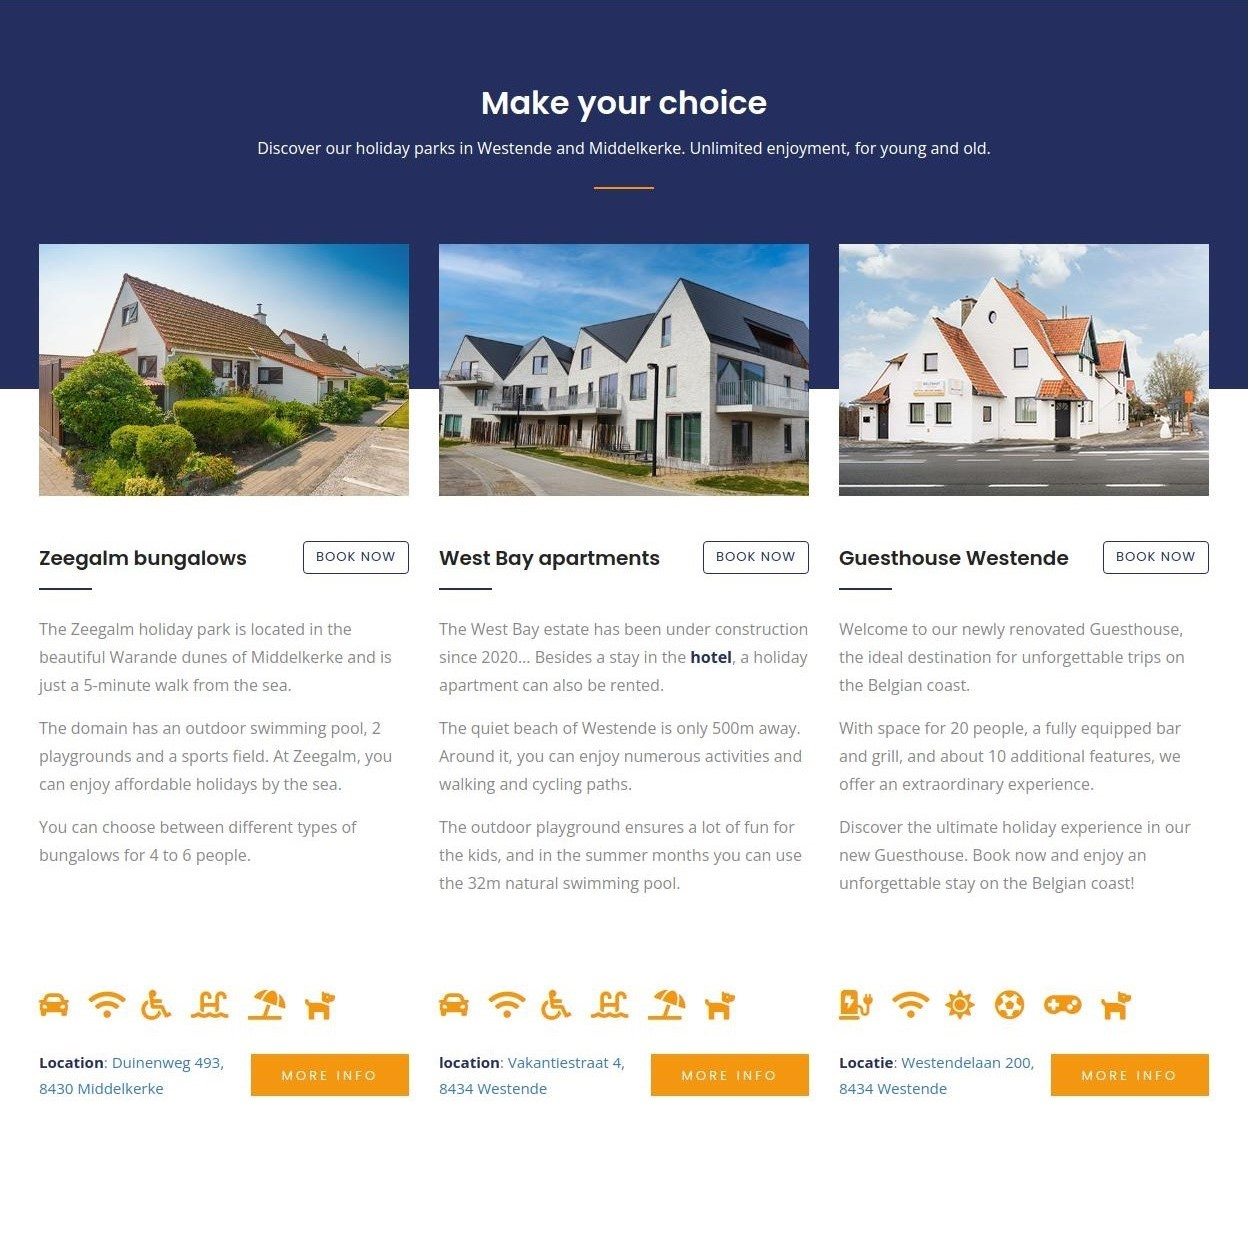
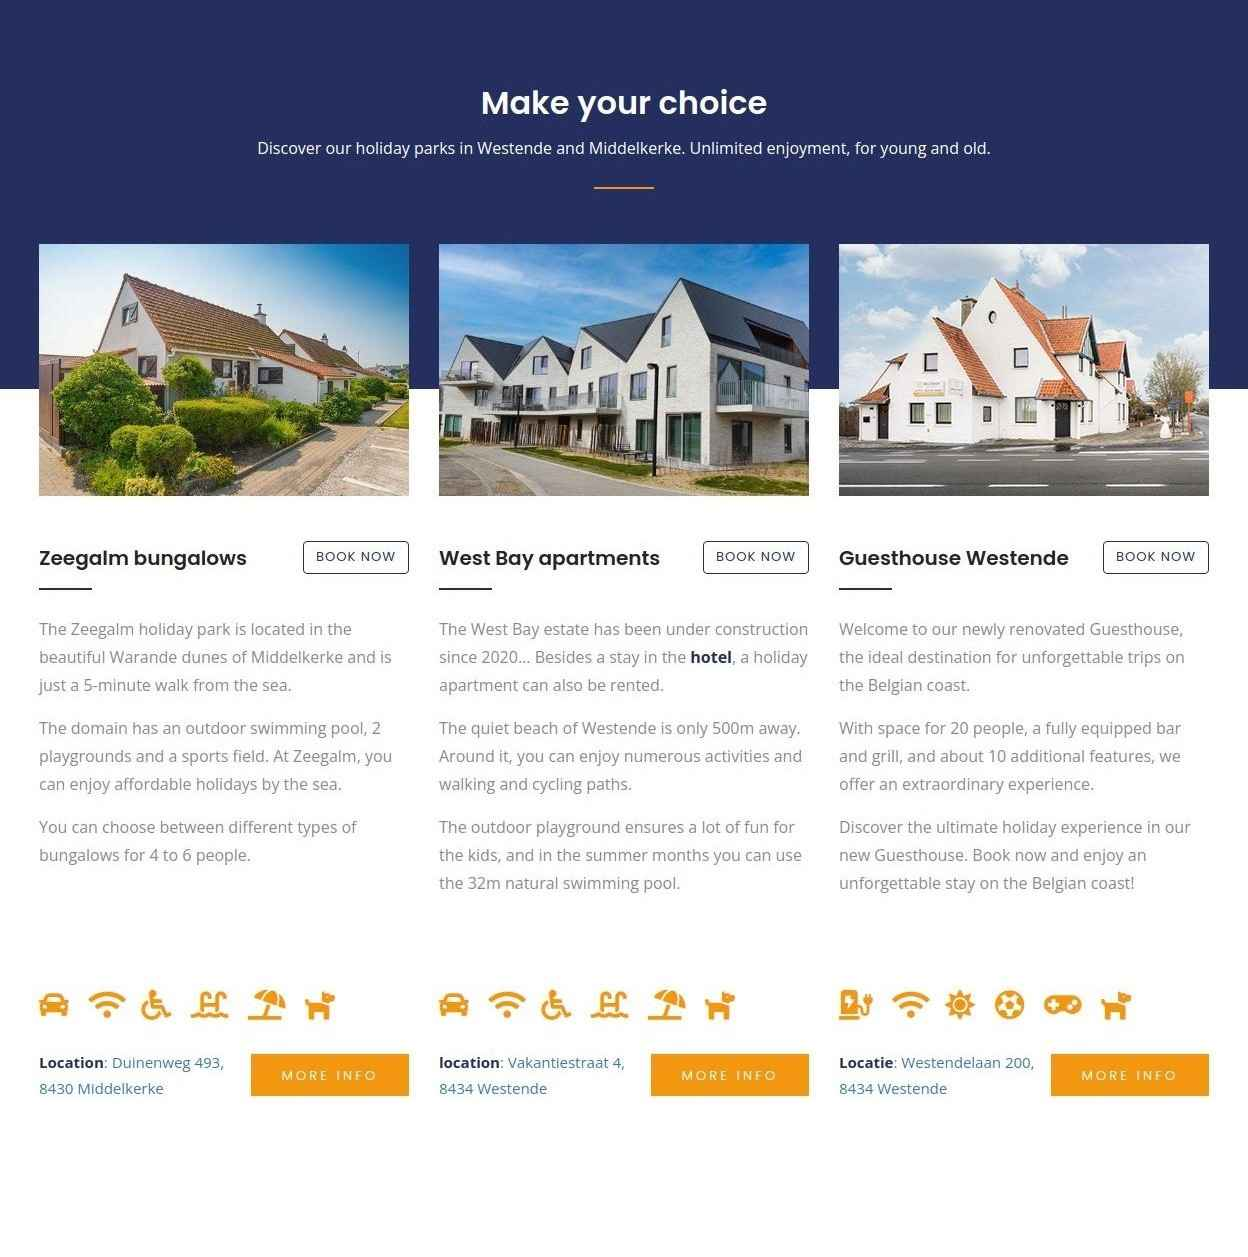
Added webp versions of images and compressed all images

diff --git a/index.php b/index.php
@@ -36,6 +36,12 @@
         <meta property="og:image" content="https://kevinmalekera.be/assets/media/work.jpg">
         <meta property="og:url" content="https://kevinmalekera.be">
         <meta property="og:type" content="website">
+        <!-- Twitter -->
+        <meta property="twitter:card" content="summary_large_image" />
+        <meta property="twitter:url" content="https://kevinmalekera.be/" />
+        <meta property="twitter:title" content="Kevin Malekera" />
+        <meta property="twitter:description" content="Hey, I'm Kevin Malekera student Digital Experience Design at Thomas More University College and freelancer as a digital designer." />
+        <meta property="twitter:image" content="https://kevinmalekera.be/assets/media/work.jpg" />
         <!-- Tab title -->
         <title>Kevin Malekera</title>
         <!-- SEO -->
@@ -131,7 +137,11 @@
             <!-- About section -->
             <section class="white-bg">
                 <div class="fw-container media-text">
-                    <img src="./assets/media/about-me-1.jpg" class="image-border-left reveal fade-bottom" alt="about me" loading="lazy">
+                    <picture class="image-border-left reveal fade-bottom">
+                        <source srcset="./assets/media/about-me-1.webp" type="image/webp">
+                        <img src="./assets/media/about-me-1.jpg" alt="about me" type="image/jpeg">
+                    </picture>
+
                     <!-- Media content -->
                     <div class="media-content reveal fade-bottom">
                         <h3 class="tag-line">My passion and focus is custom web development.</h3>
@@ -150,28 +160,40 @@
                     <div class="line coral"></div>
                     <div id="services-container" class="reveal fade-bottom">
                         <div class="service">
-                            <img src="./assets/media/icons/website-coral.png" alt="diensten website icon" loading="lazy">
+                            <picture>
+                                <source srcset="./assets/media/icons/website-coral.webp" type="image/webp">
+                                <img src="./assets/media/icons/website-coral.png" alt="diensten website icon" type="image/png">
+                            </picture>
                             <h4>Websites</h4>
                             <p>
                                 Need a website or revamp an existing one? I will develop a fully customized website for you. 
                             </p>
                         </div>
                         <div class="service">
-                            <img src="./assets/media/icons/cart-coral.png" alt="diensten e-commerce icon" loading="lazy">
+                            <picture>
+                                <source srcset="./assets/media/icons/cart-coral.webp" type="image/webp">
+                                <img src="./assets/media/icons/cart-coral.png" alt="diensten e-commerce icon" type="image/png">
+                            </picture>
                             <h4>E-commerce</h4>
                             <p>
                                 Do you want to start a functioning webshop in addition to your physical store? With WooCommerce I will build you a complete webshop. 
                             </p>
                         </div>
                         <div class="service">
-                            <img src="./assets/media/icons/seo-coral.png" alt="diensten digitale marketing icon" loading="lazy">
+                            <picture>
+                                <source srcset="./assets/media/icons/seo-coral.webp" type="image/webp">
+                                <img src="./assets/media/icons/seo-coral.png" alt="diensten digitale marketing icon" type="image/png">
+                            </picture>
                             <h4>Digital marketing</h4>
                             <p>
                                 SEO optimization, Google Ads and email marketing. Boost your conversions and reach your customers through various channels. 
                             </p>
                         </div>
                         <div class="service">
-                            <img src="./assets/media/icons/brush-coral.png" alt="diensten branding icon" loading="lazy">
+                            <picture>
+                                <source srcset="./assets/media/icons/brush-coral.webp" type="image/webp">
+                                <img src="./assets/media/icons/brush-coral.png" alt="diensten branding icon" type="image/png">
+                            </picture>
                             <h4>Branding</h4>
                             <p>
                                 Need unique corporate identity for your brand with an original logo? By combining my graphic skills I create unique designs for you. 
@@ -211,7 +233,10 @@
                     <div class="line grey"></div>
                     <div id="work-container">
                         <div class="media-content-small">
-                            <img src="./assets/media/jbd-engineering-thumbnail.png" class="image-border-left reveal fade-bottom" alt="Jbd Engineering" loading="lazy">
+                            <picture class="image-border-left reveal fade-bottom">
+                                <source srcset="./assets/media/jbd-engineering-thumbnail.webp" type="image/webp">
+                                <img src="./assets/media/jbd-engineering-thumbnail.png" alt="Jbd Engineering" type="image/png">
+                            </picture>
                             <div class="media-content-text reveal fade-bottom">
                                 <h4>Designing the Jbd Engineering website</h4>
                                 <p>
@@ -233,7 +258,10 @@
                                 </p>
                                 <a href="./case/belcoast.php" class="underline-hover-black">More info</a>
                             </div>
-                            <img src="./assets/media/Flow_Logo.png" class="image-border-right reveal fade-bottom" alt="Flow Hospitality Group logo" id="flow-logo" loading="lazy">
+                            <picture id="flow-logo" class="image-border-right reveal fade-bottom">
+                                <source srcset="./assets/media/Flow_Logo.webp" type="image/webp">
+                                <img src="./assets/media/Flow_Logo.png" alt="Flow Hospitality Group logo" type="image/png">
+                            </picture>
                         </div>
                     </div>
                 </div>

diff --git a/includes/footer-alt.inc.php b/includes/footer-alt.inc.php
@@ -9,9 +9,32 @@
       </ul>
       <h2 class="reveal fade-bottom"><a href="index.php">KM</a></h2>
       <ul class="footer-socials reveal fade-bottom">
-        <li><a href="https://github.com/kevinmlk" target="_blank"><img src="./../assets/media/icons/github-coral.png" alt="Github icon" loading="lazy"></a></li>
-        <li><a href="https://www.linkedin.com/in/kevin-malekera/" target="_blank"><img src="./../assets/media/icons/linkedin-coral.png" alt="linkedin icon" loading="lazy"></a></li>
-        <li><a href="https://t.me/kevinmalekera" target="_blank"><img src="./../assets/media/icons/telegram-coral.png" alt="telegram icon" loading="lazy"></a></li>
+        <li>
+          <a href="https://github.com/kevinmlk" target="_blank">
+            <picture>
+                <source srcset="./../assets/media/icons/github-coral.webp" type="image/webp">
+                <img src="./../assets/media/icons/github-coral.png" alt="Github icon" type="image/png">
+            </picture>
+          </a>
+        </li>
+
+        <li>
+          <a href="https://www.linkedin.com/in/kevin-malekera/" target="_blank">
+            <picture>
+              <source srcset="./../assets/media/icons/linkedin-coral.webp" type="image/webp">
+              <img src="./../assets/media/icons/linkedin-coral.png" alt="linkedin icon" type="image/png">
+            </picture>
+          </a>
+        </li>
+
+        <li>
+          <a href="https://t.me/kevinmalekera" target="_blank">
+            <picture>
+              <source srcset="./../assets/media/icons/telegram-coral.webp" type="image/webp">
+              <img src="./../assets/media/icons/telegram-coral.png" alt="telegram icon" type="image/png">
+            </picture>
+          </a>
+        </li>
       </ul>
     </div>
     <!-- Copyright -->

diff --git a/includes/footer.inc.php b/includes/footer.inc.php
@@ -9,9 +9,32 @@
       </ul>
       <h2 class="reveal fade-bottom"><a href="index.php">KM</a></h2>
       <ul class="footer-socials reveal fade-bottom">
-        <li><a href="https://github.com/kevinmlk" target="_blank"><img src="./assets/media/icons/github-coral.png" alt="Github icon" loading="lazy"></a></li>
-        <li><a href="https://www.linkedin.com/in/kevin-malekera/" target="_blank"><img src="./assets/media/icons/linkedin-coral.png" alt="linkedin icon" loading="lazy"></a></li>
-        <li><a href="https://t.me/kevinmalekera" target="_blank"><img src="./assets/media/icons/telegram-coral.png" alt="telegram icon" loading="lazy"></a></li>
+        <li>
+          <a href="https://github.com/kevinmlk" target="_blank">
+            <picture>
+                <source srcset="./assets/media/icons/github-coral.webp" type="image/webp">
+                <img src="./assets/media/icons/github-coral.png" alt="Github icon" type="image/png">
+            </picture>
+          </a>
+        </li>
+
+        <li>
+          <a href="https://www.linkedin.com/in/kevin-malekera/" target="_blank">
+            <picture>
+              <source srcset="./assets/media/icons/linkedin-coral.webp" type="image/webp">
+              <img src="./assets/media/icons/linkedin-coral.png" alt="linkedin icon" type="image/png">
+            </picture>
+          </a>
+        </li>
+
+        <li>
+          <a href="https://t.me/kevinmalekera" target="_blank">
+            <picture>
+              <source srcset="./assets/media/icons/telegram-coral.webp" type="image/webp">
+              <img src="./assets/media/icons/telegram-coral.png" alt="telegram icon" type="image/png">
+            </picture>
+          </a>
+        </li>
       </ul>
     </div>
     <!-- Copyright -->

diff --git a/work.php b/work.php
@@ -23,12 +23,6 @@
         <meta property="og:image" content="https://kevinmalekera.be/assets/media/work.jpg">
         <meta property="og:url" content="https://kevinmalekera.be/work.php">
         <meta property="og:type" content="website">
-        <!-- Twitter -->
-        <meta property="twitter:card" content="summary_large_image" />
-        <meta property="twitter:url" content="https://kevinmalekera.be/" />
-        <meta property="twitter:title" content="Kevin Malekera" />
-        <meta property="twitter:description" content="Hey, I'm Kevin Malekera student Digital Experience Design at Thomas More University College and freelancer as a digital designer." />
-        <meta property="twitter:image" content="https://kevinmalekera.be/assets/media/work.jpg" />
         <!-- Tab title -->
         <title>Portfolio | Kevin Malekera</title>
         <!-- SEO -->

diff --git a/case/jbd-engineering.php b/case/jbd-engineering.php
@@ -315,7 +315,7 @@
                 </div>
             </section>
             <!-- Work section -->
-            <section class="black-bg">
+            <!-- <section class="black-bg">
                 <div class="fw-container">
                     <h3>Explore other projects</h3>
                     <div class="line grey"></div>
@@ -347,7 +347,7 @@
                         </div>
                     </div>
                 </div>
-            </section>
+            </section> -->
             <!-- Include parallax -->
             <?php include_once(__DIR__ . '/../includes/parallax-deep.inc.php'); ?>
         </main>
